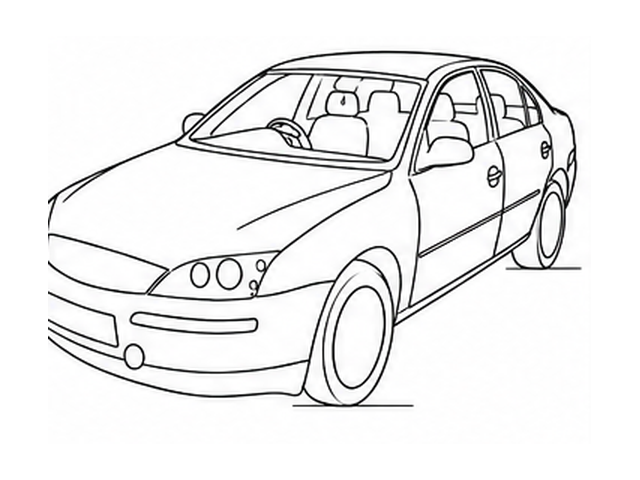
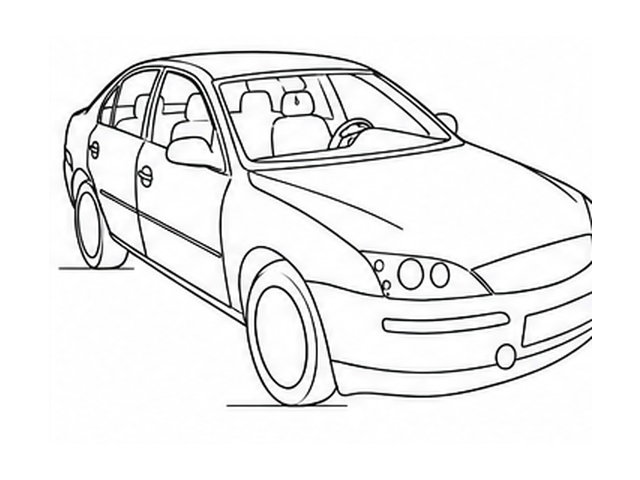
Fix mirror-flipped step 4 (rear driver 3/4) and step 8 (front passenger 3/4) outline images to match storyboard. Flip arrow direction. Speed up outline step timing (4s->2.5s) and arrow flash rate.

Changed region(s): [[0.0625, 0.0938, 0.9375, 0.875], [0.9062, 0.5938, 0.9375, 0.625], [0.0625, 0.5938, 0.0938, 0.625]]

diff --git a/src/components/GuidedCaptureModal.tsx b/src/components/GuidedCaptureModal.tsx
@@ -14,7 +14,7 @@ type Props = {
 // no pan, no extra frames beyond exactly what's in the reference.
 const OUTLINE_STEP_INDICES = [0, 10, 9, 7, 6, 4, 3, 1, 0]
 const OUTLINE_FRAMES = OUTLINE_STEP_INDICES.map((i) => `/condition-report/outline-frames-16/step_${String(i).padStart(2, '0')}.png`)
-const OUTLINE_STEP_SECONDS = 4 // ~4s/step matches the storyboard's own ~4s-per-step pacing
+const OUTLINE_STEP_SECONDS = 2.5 // sped up from 4s per step
 // Arrow points left while walking the driver side (front -> driver side ->
 // rear), then right while walking the passenger side (rear -> passenger side
 // -> front) — matches the direction the outline appears to move on screen.
@@ -39,11 +39,11 @@ function CarOutlineOverlay({ elapsedSeconds }: { elapsedSeconds: number }) {
 // A simple flashing arrow (not a curved arc) showing which way to step next.
 function DirectionArrow({ elapsedSeconds }: { elapsedSeconds: number }) {
   const index = Math.floor(elapsedSeconds / OUTLINE_STEP_SECONDS) % OUTLINE_FRAMES.length
-  const pointLeft = LEFT_ARROW_INDICES.has(index)
+  const pointLeft = !LEFT_ARROW_INDICES.has(index)
   return (
     <div
       className="absolute top-1/2 -translate-y-1/2 text-[#378ADD]"
-      style={{ [pointLeft ? 'left' : 'right']: '5%', animation: 'arrow-flash 1s ease-in-out infinite' }}
+      style={{ [pointLeft ? 'left' : 'right']: '5%', animation: 'arrow-flash 0.7s ease-in-out infinite' }}
     >
       <style>{`
         @keyframes arrow-flash {
